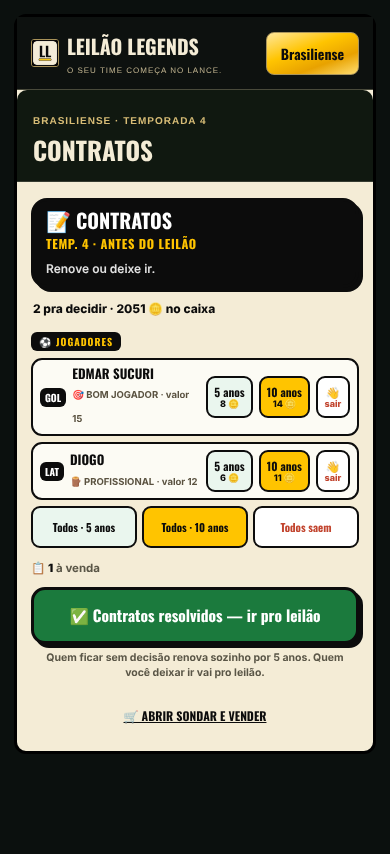
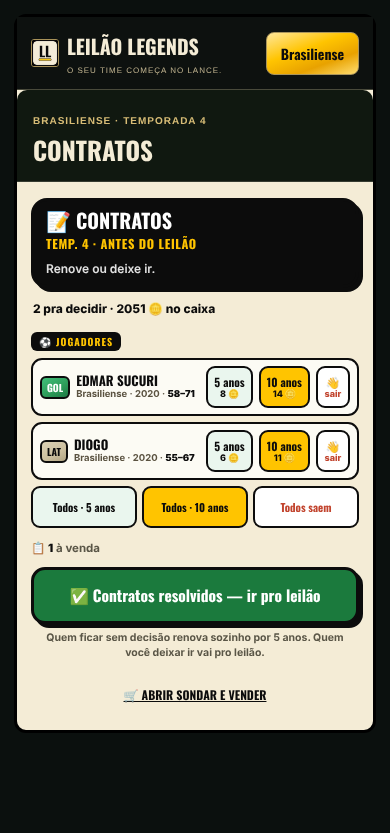
Janela nova (só conta do Diego): linha do contrato mostra clube, ano e o over conforme o plano; a categoria é a cor do selo
Claude-Session: https://claude.ai/code/session_018Ap1zPCMVL9XeZJN3u93ZA

diff --git a/src/escalacao/renovacao-mesa.tsx b/src/escalacao/renovacao-mesa.tsx
@@ -1,3 +1,4 @@
+import { myApoioPerk } from './apoio'
 import {useCareerVisualV2} from './career-visual-v2'
 import { CompromissoCarreira } from './compromissos-carreira-ui'
 // 📝 MESA DE RENOVAÇÃO (22/10, mockup scripts/mockups/carreira-renovacao-nova.png — Diego: *"perfeito pode
@@ -112,14 +113,17 @@ export function MesaRenovacao({ tecnicoOn, enxuta = false }: { tecnicoOn: boolea
     )
     // 📋 21/11 (Diego: *"ainda tá muito exagerado… poderia ficar menor os nomes e do lado as coisas em lista"*): na tela nova de
     // Contratos cada jogador é UMA LINHA — posição, nome e valor à esquerda; à direita um botão por prazo (toque = renova) e o 👋.
+    // 🃏 21/11 (Diego: *"não é pra aparecer 'bom jogador'… é o clube, o ano, padrão — e o over com base no plano"*): a carta como no Elenco —
+    // clube e ano; o over só pra quem o plano mostra (👑 tudo · ⭐ até craque); a categoria é a COR do selo, nunca a palavra.
+    const meuTier = myApoioPerk()?.tier, veOver = (x: WonCard) => !!x.lo && !!x.hi && !x.fake && (meuTier === 'ouro' || (meuTier === 'prata' && x.fame < 5))
     if (enxuta) {
       const bt = { border: `2px solid ${INK}`, borderRadius: 9, padding: '4px 6px', ...OSWALD, fontWeight: 900, fontSize: 11.5, lineHeight: 1.1, cursor: 'pointer', color: INK, flex: 'none', textAlign: 'center' as const, minWidth: 46 }
       return (
         <div key={c.id} style={{ display: 'flex', alignItems: 'center', gap: 6, background: '#FCFBF4', border: `2px solid ${INK}`, borderRadius: 11, padding: '6px 7px', marginBottom: 6 }}>
-          <span style={{ ...OSWALD, fontWeight: 900, fontSize: 10, background: INK, color: '#fff', borderRadius: 6, padding: '2px 5px', flex: 'none' }}>{c.pos}</span>
+          <span style={{ ...OSWALD, fontWeight: 900, fontSize: 10, background: t.grad, color: t.ink, border: `2px solid ${INK}`, borderRadius: 6, padding: '2px 5px', flex: 'none' }}>{c.pos}</span>
           <span style={{ flex: 1, minWidth: 0 }}>
             <b style={{ ...OSWALD, fontWeight: 900, fontSize: 13, textTransform: 'uppercase', display: 'block', lineHeight: 1.1, overflow: 'hidden', textOverflow: 'ellipsis', whiteSpace: 'nowrap' }}>{c.name}</b>
-            <small style={{ fontSize: 9.5, fontWeight: 700, color: '#5a5240' }}>{en ? (TIER_EN[t.label] ?? t.label) : t.label} · {tr('valor', 'value')} {oficial}</small>
+            <small style={{ fontSize: 9.5, fontWeight: 700, color: '#5a5240', display: 'block', overflow: 'hidden', textOverflow: 'ellipsis', whiteSpace: 'nowrap' }}>{c.club} · {c.year}{veOver(c) ? <> · <b style={{ color: INK }}>{c.lo}–{c.hi}</b></> : null}</small>
           </span>
           {ops.length > 0 ? ops.map(a => { const cst = renewCost(oficial, a as RenewAnos); return (
             <button key={a} onClick={() => renovar(c, dono, a as RenewAnos)} style={{ ...bt, background: a === 10 ? GOLD : '#EAF6EE' }}>{a} {en ? 'y' : a > 1 ? 'anos' : 'ano'}<small style={{ display: 'block', fontFamily: 'system-ui', fontWeight: 800, fontSize: 9 }}>{cst} 🪙{saldo < cst ? ' 💳' : ''}</small></button>) })
